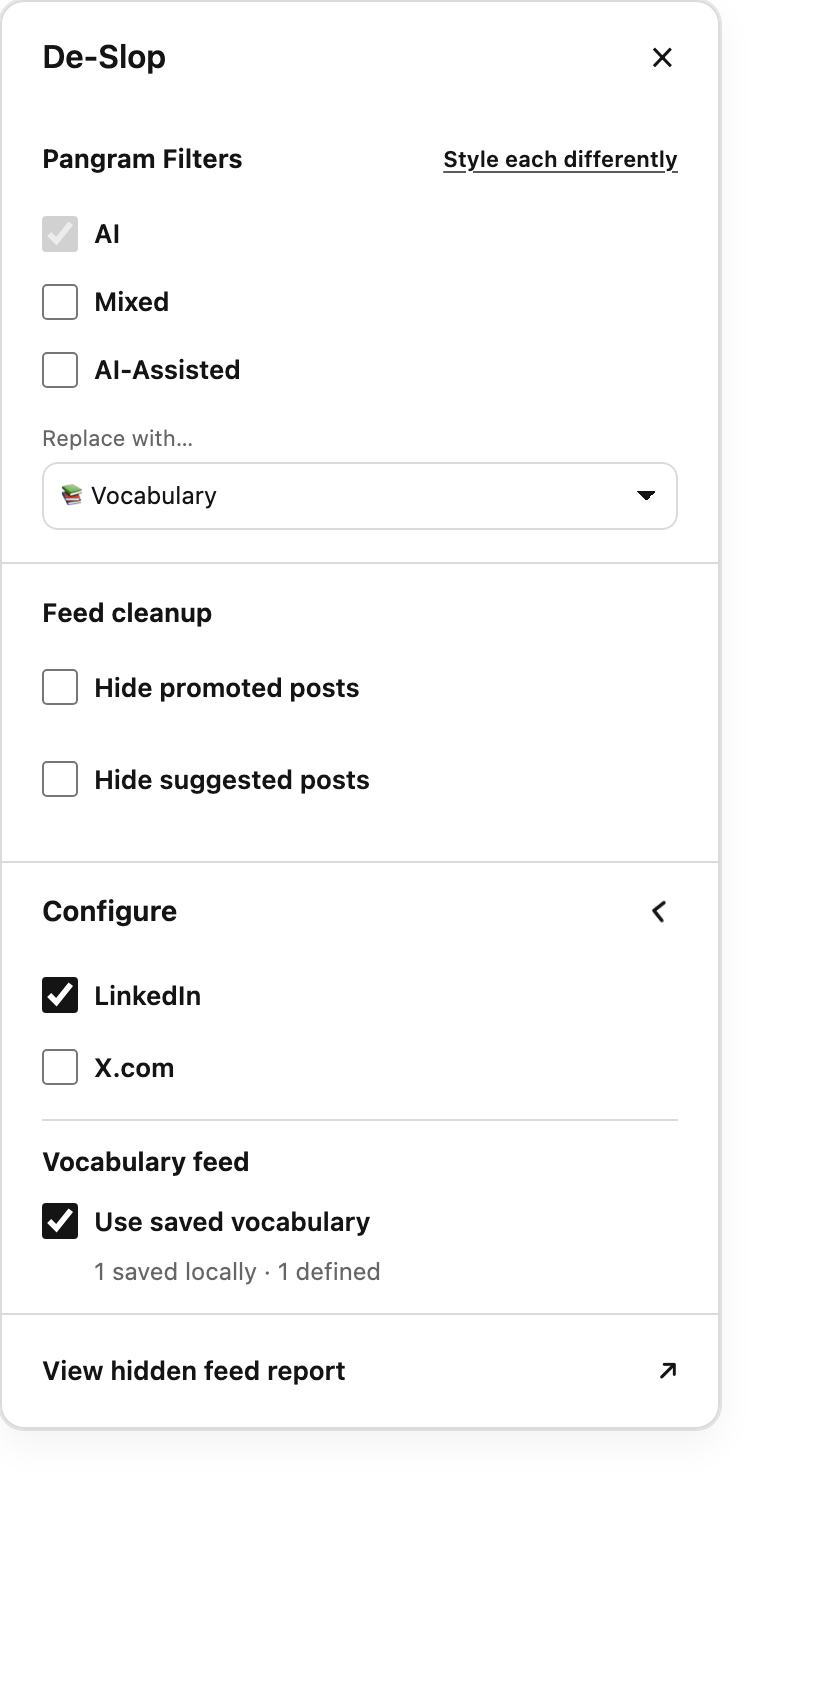
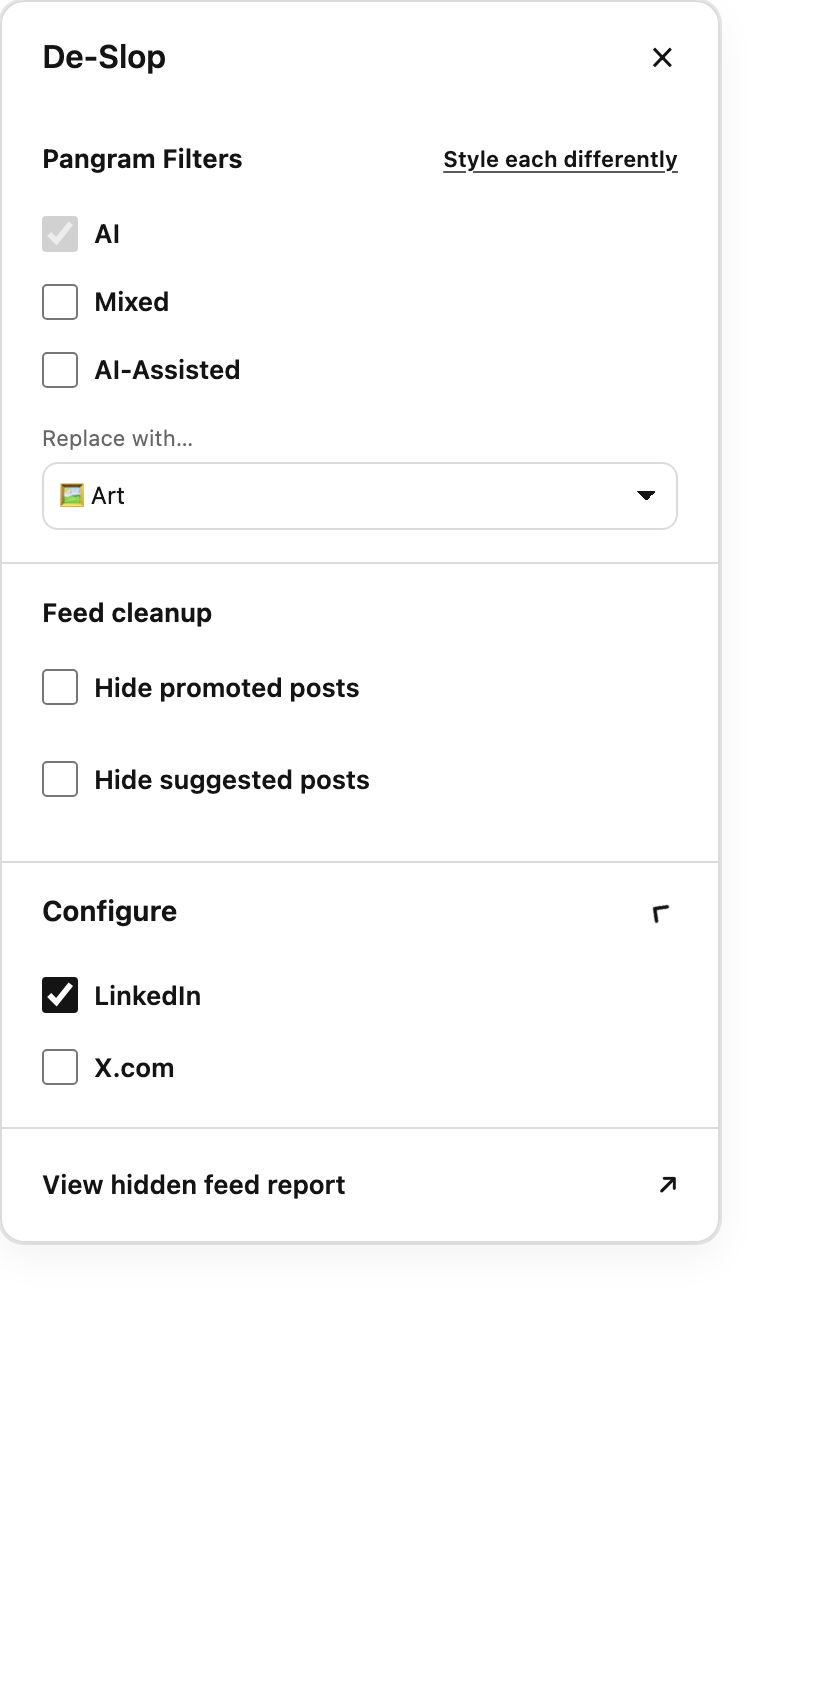
Keep vocabulary feature dormant

diff --git a/src/options/options.js b/src/options/options.js
@@ -19,6 +19,7 @@ import * as vocabularyCore from '../vocabulary-core.mjs';
     hideSuggested: document.querySelector('#hide-suggested'),
     platformLinkedIn: document.querySelector('#platform-linkedin'),
     platformX: document.querySelector('#platform-x'),
+    vocabularySection: document.querySelector('.vocabulary-section'),
     vocabularyEnabled: document.querySelector('#vocabulary-enabled'),
     vocabularyStatus: document.querySelector('#vocabulary-status'),
     styleModeToggle: document.querySelector('#style-mode-toggle'),
@@ -52,6 +53,7 @@ import * as vocabularyCore from '../vocabulary-core.mjs';
   ];
   let styleMode = 'same';
   let vocabularyState = vocabularyCore.normalizeVocabularyState();
+  controls.vocabularySection.hidden = !vocabularyCore.FEATURE_ENABLED;
 
   function storageGet(area, defaults) {
     return new Promise((resolve) => chrome.storage[area].get(defaults, resolve));

diff --git a/src/options/options.html b/src/options/options.html
@@ -104,7 +104,7 @@
             <input id="platform-x" type="checkbox" />
             <strong>X.com</strong>
           </label>
-          <section class="vocabulary-section" aria-labelledby="vocabulary-heading">
+          <section class="vocabulary-section" aria-labelledby="vocabulary-heading" hidden>
             <div class="section-heading">
               <h2 id="vocabulary-heading">Vocabulary feed</h2>
             </div>

diff --git a/README.md b/README.md
@@ -1,6 +1,6 @@
 # De-Slop
 
-De-Slop replaces feed posts that Pangram labels as AI with quiet art, poetry, space photography, or words from a vocabulary list you build while browsing. It works by reading the verdict markers Pangram already adds to pages. It does not run its own AI detector.
+De-Slop replaces feed posts that Pangram labels as AI with quiet art, poetry, or space photography. It works by reading the verdict markers Pangram already adds to pages. It does not run its own AI detector.
 
 ## What it does
 
@@ -9,51 +9,29 @@ De-Slop replaces feed posts that Pangram labels as AI with quiet art, poetry, sp
 - Can optionally replace `AI-Assisted` posts as a third Pangram verdict category.
 - Uses one content stream for every verdict by default.
 - Can route `AI` and `Mixed` verdicts to different streams.
-- Offers 🖼 Art, 📜 Poetry, 🎨 Modern Art (experimental), 🌌 Deep Space, 🎾 Garross Gallery, ✨ Surprise me, and an opt-in local Vocabulary feed.
-- Saves arbitrary selected text from Chrome's right-click menu without validating, splitting, or deduplicating it.
+- Offers 🖼 Art, 📜 Poetry, 🎨 Modern Art (experimental), 🌌 Deep Space, 🎾 Garross Gallery, and ✨ Surprise me.
 - Can replace selected verdicts with a compact `☢ De-slopped your feed` notice instead of loading a source.
 - Can hide promoted impressions with `💸 Hide promoted posts`.
 - Can hide LinkedIn Suggested posts with `🦟 Hide suggested`.
 - Turns Pangram-flagged comments into 🤡 per word without hiding their human-authored parent post.
 - Keeps the original post behind a `Show original` button.
 - Watches for new posts in infinite-scroll feeds.
-- Stores preferences and vocabulary entries, but does not store downloaded provider content.
+- Stores preferences, but does not store downloaded provider content.
 
 The extension is designed to work anywhere Pangram adds its feed badges. LinkedIn, Medium, and X are the first verification targets.
 
 ## Install from GitHub
 
-1. Download the [latest release](https://github.com/elou/pangram-gallery/releases/latest) and unzip it.
+1. Download the [latest release](https://github.com/elou/deslop/releases/latest) and unzip it.
 2. Open Chrome and go to `chrome://extensions`.
 3. Turn on **Developer mode**.
 4. Choose **Load unpacked**.
-5. Select the unzipped `pangram-gallery` folder.
+5. Select the unzipped `deslop` folder.
 6. Keep the Pangram extension installed and signed in.
 
 Open De-Slop from Chrome's Extensions menu to choose verdicts and content streams. Select **Style each differently** to choose one stream for AI, Mixed, and AI-Assisted. Choose **❌ Hide AI completely** in any dropdown to remove matching posts and leave a De-slopped notice. The separate **💸 Hide promoted posts** and **🦟 Hide suggested** filters can either render a chosen stream or leave compact cleanup notices.
 
 Chrome will report that the extension can read and change data on websites. That broad permission is required because Pangram can label feeds on any site. De-Slop looks only for Pangram's verdict markers and does not collect or transmit post text.
-
-## Vocabulary feed
-
-1. Select any text on a page and right-click it.
-2. Choose **Add “…” to De-Slop vocabulary**. De-Slop saves the exact selection after trimming only its outside whitespace; multi-word selections and duplicates are allowed.
-3. Open De-Slop and turn on **Use saved vocabulary** at the bottom of the popup.
-4. Once the feature is on and at least one entry exists, **📚 Vocabulary** appears in the replacement dropdowns.
-
-An enabled but empty list is never offered as a replacement stream. If Vocabulary is selected and the list later becomes disabled or empty, De-Slop repairs that routing choice to **🖼 Art** rather than leaving a blank replacement.
-
-Vocabulary entries live in `chrome.storage.local`, not Chrome Sync. The extension saves the term before attempting a definition, so a definition failure cannot lose the entry.
-
-### Local macOS definitions
-
-Definitions come from the dictionaries already active in macOS. Chrome requires a small native-messaging helper to call that system API:
-
-1. Open `chrome://extensions`, find De-Slop, and copy its extension ID.
-2. From the repository root, run `./scripts/install-dictionary-host.sh <extension-id>`.
-3. Reload De-Slop from `chrome://extensions`.
-
-The helper is compiled locally from `native/dictionary-host/main.swift`. It receives only the saved term, calls macOS Dictionary Services, and returns plain text to the extension; it makes no network request. Without the helper, saving and using vocabulary still works, but the card shows **Definition unavailable**.
 
 ## Comments
 
@@ -61,7 +39,7 @@ When Pangram marks a comment as AI, Gallery keeps the post and comment thread in
 
 ## Privacy and storage
 
-De-Slop reads verdict labels that Pangram injects into the current page. It sends no page or post text to its own server because it has no server. Content comes directly from the selected provider, Chrome Sync stores only extension settings, and vocabulary entries stay in local extension storage. System definition lookup stays on the Mac through the optional native helper.
+De-Slop reads verdict labels that Pangram injects into the current page. It sends no page or post text to its own server because it has no server. Content comes directly from the selected provider, and Chrome Sync stores only extension settings.
 
 ## Content streams
 
@@ -70,16 +48,17 @@ De-Slop reads verdict labels that Pangram injects into the current page. It send
 - **Modern Art (experimental)** — a curated modern-style slice of the [WikiArt research corpus](https://huggingface.co/datasets/huggan/wikiart). It is labeled noncommercial research because the dataset's rights vary.
 - **Deep Space** — optimized nebula, supernova-remnant, galaxy, and deep-field images from the official [NASA Image and Video Library](https://images.nasa.gov/), rather than weather-focused APOD rotation.
 - **🎾 Garross Gallery** — Roland-Garros poster records from [The Art of Roland-Garros](https://www.garros.gallery/), with a direct link back to each poster. It is an explicit research stream, not part of the rights-safe pool.
-- **✨ Surprise me** — a global random draw across the rights-safe Art, Poetry, and Deep Space providers. Modern-art, Garross, and local Vocabulary sources stay opt-in because their source behavior is different.
-- **📚 Vocabulary** — a random saved entry plus its locally cached system definition when available. This stream appears only after it is enabled and has content.
+- **✨ Surprise me** — a global random draw across the rights-safe Art, Poetry, and Deep Space providers. Modern-art and Garross stay opt-in because their source behavior is different.
 
 The runtime uses a provider registry: every adapter returns the same normalized card shape (`kind`, title, creator, location, source URL, rights, credit, provider, and media/text payload). Category labels hide provider selection for normal use, while the provider name and original link remain visible for attribution.
 
-Garross Gallery is link-back research content and is excluded from Surprise me. Vocabulary does not join Surprise me and never sends saved text to a content provider.
+Garross Gallery is link-back research content and is excluded from Surprise me.
 
 ## Development
 
 This is a dependency-free Manifest V3 extension.
+
+The repository retains an unfinished local-vocabulary implementation behind `FEATURE_ENABLED = false`. The current release exposes no vocabulary controls, context menu, feed route, or native-messaging permission. Existing stale Vocabulary routes repair to Art.
 
 - `npm test` checks verdict and provider behavior.
 - `npm run check` validates the manifest and runs the test suite.

diff --git a/CHANGELOG.md b/CHANGELOG.md
@@ -5,8 +5,7 @@ De-Slop follows semantic versioning from its first cumulative GitHub release.
 ## Unreleased
 
 - Retired the Art 2, New Yorker, and Far Side streams and removed their active provider routing and dedicated host permissions.
-- Added a machine-local Vocabulary feed: arbitrary selected text can be saved from Chrome's context menu, the stream appears only when enabled and nonempty, and stale empty-list routing falls back to Art.
-- Added an optional native helper that resolves definitions through macOS Dictionary Services without a remote API or background model.
+- Built the local Vocabulary feed and optional macOS Dictionary helper, but kept them dormant in this release: no context-menu capture, popup controls, feed option, or related Chrome permissions are exposed; stale Vocabulary routing falls back to Art.
 - Renamed the installed extension from Pangram Gallery to De-Slop and replaced its icon with 💩.
 - Replaced the museum, PoetryDB, and APOD options with Painting Classics, Freeverse Classic Poetry, experimental Modern Art, and NASA Deep Space streams.
 - Added live public-domain checks for Painting Classics and an author-balanced Freeverse poem source.
